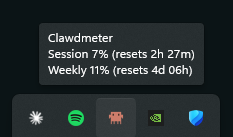
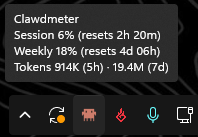
2.0: drop in the 2.0 hero GIF + refreshed Settings/tray shots
Point the README hero at the new ClawdMeter-2.0-Hero.gif (and remove the old
1.5 hero), now that the manual media is in: the Settings shot shows the new
Token usage section and the tray-tooltip shot shows the Tokens line. Also
correct the exe size note (~27 MB -> ~29 MB) to match the 2.0 build.

diff --git a/README.md b/README.md
@@ -3,7 +3,7 @@
 Standalone Windows desktop dashboard for Claude Code usage.
 
 <p align="center">
-  <img src="assets/ClawdMeter-Windows-New-Hero.gif" width="420"
+  <img src="assets/ClawdMeter-2.0-Hero.gif" width="420"
        alt="Clawdmeter-Windows — the Clawd mascot reacting live to Claude Code activity, with session and weekly usage">
 </p>
 
@@ -133,7 +133,7 @@ taskbar entry and is draggable (it remembers where you left it).
 ## Download
 
 Grab the latest `Clawdmeter.exe` from the
-[Releases](../../releases) page — it's a single self-contained file (~27 MB,
+[Releases](../../releases) page — it's a single self-contained file (~29 MB,
 bundling Python + Qt), no install needed. Just run it.
 
 > **Heads up:** the exe is not code-signed, so Windows SmartScreen may show a
@@ -174,7 +174,7 @@ Add `--mock` to drive the UI with synthetic data (no API calls):
 .\build.ps1
 ```
 
-Output: `dist\Clawdmeter.exe` — single-file, no console window, ~27 MB.
+Output: `dist\Clawdmeter.exe` — single-file, no console window, ~29 MB.
 
 `Clawdmeter.spec` prunes the parts of PySide6/Qt the app doesn't use (the
 QML/Quick stack, the ~20 MB software-OpenGL fallback, unused image-format and